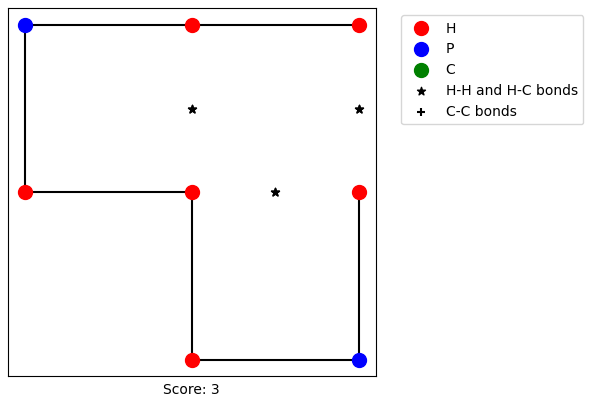
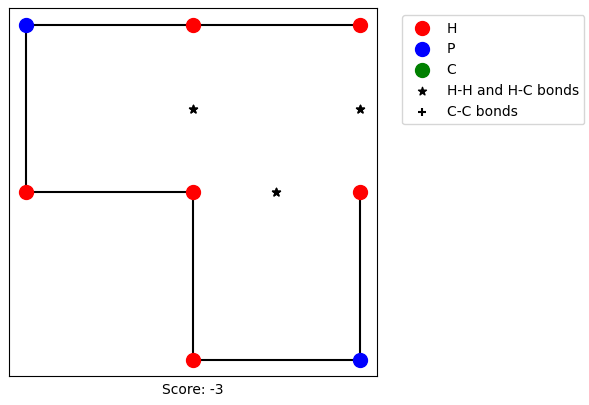
changes to experiment and readme

diff --git a/main.py b/main.py
@@ -12,10 +12,10 @@ import pickle
 def baseline_func(input_file):
     # ------------- baseline random algorithm -------------
     test_protein = protein.Protein(input_file)
-    baseline.baseline_random_protein(test_protein)
+    baseline.baseline_random_algorithm(test_protein)
 
     while test_protein.check_validity() == False:
-        baseline.baseline_random_protein(test_protein)
+        baseline.baseline_random_algorithm(test_protein)
     
     return test_protein
 
@@ -63,6 +63,7 @@ if __name__ == "__main__":
     algorithm = f"{sys.argv[1]}"
     input_file = f"proteins/{sys.argv[2]}.csv"
     
+
     if algorithm == "baseline":
         test_protein = baseline_func(input_file)
     elif algorithm == "random":
@@ -73,11 +74,12 @@ if __name__ == "__main__":
         test_protein = depth_first_func(input_file)
     elif algorithm == "breadth":
         test_protein = depth_first_func(input_file)
-
+ 
     
-        #test_protein.print_output("random_improved.csv")
-    #visualisation.print_folded_protein("output/random_improved.csv")
-    
-    result = pickle.dumps(test_protein)
-
-    sys.stdout.buffer.write(result)
+    if sys.argv[3] == "experiment":
+        result = pickle.dumps(test_protein)
+        sys.stdout.buffer.write(result)
+    else:
+        output_file = f"{sys.argv[3]}.csv"
+        test_protein.print_output(output_file)
+        visualisation.print_folded_protein(f"output/{output_file}")

diff --git a/experiment.py b/experiment.py
@@ -1,16 +1,13 @@
 import subprocess
 import time
 import sys
-from code.algorithms import baseline
-from code.classes import protein
-import matplotlib.pyplot as plt
 import pickle, codecs
 from unidecode import unidecode
-from code.visualisation import visualisation
-from histogram import histogram
+from code.visualisation import visualisation, histogram
 
 algorithm = sys.argv[1]
-input_protein = sys.argv[2]  
+input_protein = sys.argv[2] 
+output_file = sys.argv[1] + "_" + sys.argv[2]
 
 start = time.time()
 n_runs = 0
@@ -20,7 +17,7 @@ min_score = 0
 
 while time.time() - start < 100:
     print(f"run: {n_runs}")
-    result = subprocess.Popen(["timeout", "5", "python3", "main.py", algorithm, f"{input_protein}"], stdout=subprocess.PIPE)
+    result = subprocess.Popen(["timeout", "10", "python3", "main.py", algorithm, f"{input_protein}", "experiment"], stdout=subprocess.PIPE)
     output, _ = result.communicate()
 
     if output == "":
@@ -36,7 +33,7 @@ while time.time() - start < 100:
 
     n_runs += 1
 
-best_protein.print_output(f"experiment_best_{input_protein}.csv")
-visualisation.print_folded_protein(f"output/experiment_best_{input_protein}.csv")
+best_protein.print_output(f"experiment/experiment_{output_file}.csv")
+visualisation.print_folded_protein(f"output/experiment/experiment_{output_file}.csv")
 
-histogram(list_scores)
+histogram.histogram(list_scores, output_file)

diff --git a/code/visualisation/histogram.py b/code/visualisation/histogram.py
@@ -1,0 +1,14 @@
+import matplotlib.pyplot as plt
+
+def histogram(list1, output_file):
+    title = output_file.replace("_", " ").title()
+    bins = [x + 0.5 for x in set(sorted(list1))]
+    bins.append(min(bins) - 1)
+    bins = sorted(bins)
+
+    plt.hist(list1, bins, edgecolor='black')
+    plt.xlim(min(list1) - 1.5, max(list1) + 1.5)
+    plt.xlabel("Stability Score")
+    plt.ylabel("Iterations")
+    plt.title(title)
+    plt.savefig(f"output/experiment/histogram_{output_file}.png")

diff --git a/code/visualisation/plot.py b/code/visualisation/plot.py
@@ -117,7 +117,7 @@ def coord_types(output: list[list[Any]], soort: str) -> list[list[Any]]:
 
 def count_score(stars, plus):
     """ Return the score of the protein"""
-    return len(set(stars)) + len(set(plus)) * 5
+    return (len(set(stars)) + len(set(plus)) * 5) * -1
 
 def create_plot(output, plot_name):
     """ Create a plot of the protein """

diff --git a/README.md b/README.md
@@ -8,17 +8,87 @@ Minor Programmeren - Universiteit van Amsterdam \
 
 ## Case
 
-Eiwitten zijn lange strengen van aminozuren die veel belangrijke processen in het menselijk lichaam beregelen. Het is bekend dat eiwitten ‘opgevouwen’ in de lichaamscellen opgeborgen zitten, en dat de specifieke vouwing bepalend is voor het functioneren; verkeerd gevouwen eiwitten staan aan de basis van onder andere kanker, Alzheimer en taaislijmziekte. Het is daarom van groot belang voor zowel de farmaceutische industrie als de medische wetenschap om iets te kunnen zeggen over de exacte vorm van de vouwing.
+Proteïnen zijn lange strengen van aminozuren die veel belangrijke processen in het menselijk lichaam beregelen. Het is bekend dat proteïnen ‘opgevouwen’ in de lichaamscellen opgeborgen zitten, en dat de specifieke vouwing bepalend is voor het functioneren; verkeerd gevouwen proteïnen staan aan de basis van onder andere kanker, Alzheimer en taaislijmziekte. Het is daarom van groot belang voor zowel de farmaceutische industrie als de medische wetenschap om iets te kunnen zeggen over de exacte vorm van de vouwing.
 
-Nu is er is het één en ander bekend over het mechanisme: hydrofobe aminozuren (H) willen graag ‘naast elkaar’ liggen, polaire aminozuren (P) hebben die voorkeur niet. Als twee hydrofobe aminozuren naast elkaar liggen ontstaat er namelijk een ‘H-bond’ door de aantrekkende kachten tussen de twee. En hoe meer bonds, hoe stabieler het eiwit. Voor de wetenschappers en farmaceuten is het belangrijk om te weten tot welke stabiliteit van het eiwit maximaal gevouwen zou kunnen worden. Het doel is dus de gegeven eiwitten zo op te vouwen, dat ze zo stabiel mogelijk zijn.
+Aminozuren kunnen worden ingedeeld in drie verschillende klasses Polair (P), Hydrofoob (H) en Cysteine (C).
+Als twee hydrofobe of cysteine aminozuren naast elkaar liggen ontstaat er een ‘H-bond’ door de aantrekkende kachten tussen de twee. En hoe meer bonds, hoe stabieler het proteïne. Voor de wetenschappers en farmaceuten is het belangrijk om te weten tot welke stabiliteit van het proteïne maximaal gevouwen zou kunnen worden. Het doel is dus de gegeven proteïnen zo op te vouwen, dat ze zo stabiel mogelijk zijn.
+
+Om dit doel te behalen zijn er verschillende soorten algoritmes geschreven. Dit zijn random, constructieve en iteratieve algoritmes. [**Meer informatie over de algorithmes kan hier gevonden worden.**](https://github.com/Ella-cloud-max/ELE/tree/main/code/algorithms)
+
+#### Score
+De stabiliteits score wordt berekend door de hoeveelheid bonds die ontstaan door een vouwing te tellen. H-H en H-C bonds hebben een stabiliteits score van -1, terwijl C-C bonds een stabiliteits score hebben van -5.
 
 ## Gebruik
-matplotlib
-random
-unidecode
+Download de nodigde python modules met onderstaand command:
+```
+ python3 -m pip install -r requirements.txt
+```
+
+Het volgende commando kan gebruikt worden om een van de algoritme te draaien
+
+```
+python main.py algorithm input_filename output_filename
+```
+
+Voor de algorithmes kan gekozen worden uit de volgende opties:
+- baseline
+- random
+- greedy
+- depth  
+- breadth
+- hill climbing
+- simulated annealing
+
+
+De input files zijn csv bestanden die zich in het mapje proteins bevinden. \
+Een voorbeeld van een commando om een greedy algoritm te runnen op het protein in protein1.csv is als volgt.
+
+```
+python main.py greedy protein1 output_protein1
+```
+
+#### Visualisatie
+Er zijn twee manieren om het opgevouwen proteïne te visualiseren. Het proteine kan in de terminal geprint worden, of opgeslagen in een png bestand.
+
+**Terminal** \
+Om de visualisatie in de terminal te printen kan het onderstaand command gebruiken. Het output bestand moet in het csv formaat opgeslagen liggen in de output folder.
+
+```
+python code/visualisation/visualisatie.py example_output
+```
+
+<img src="/docs/terminal_visualisation.png" height="100px">
+
+\
+**Bestand** \
+Gebruik het onderstaande command om de visualisatie op te slaan als een png bestand. Het plaatje wordt als een png bestand opgeslagen in het mapje output/visualisation.
+
+```
+python code/visualisation/plot.py example_output visualisation_output_file
+```
+<img src="/docs/plot_visualisation.png" height="200px">
+
+#### Experiment
+Om een experiment te runnen gebruik het volgende command:
+
+```
+python experiment.py algorithm input_filename
+```
+Voor 100 seconden wordt het algoritm zo vaak als mogelijk is gedraaid. Een lijst met alle uitkomsten wordt in het bestand experiment_algorithm_input_filename.csv opgeslagen in het mapje output/experiment. Een histogram van de output wordt in het bestand histogram_algorithm_input_filename.png opgeslagen in het zelfde mapje.
+
+<img src="/docs/histogram_example.png" height="200px">
 
 
 ## Structuur
+[/code](https://github.com/Ella-cloud-max/ELE/tree/main/code): alle code geschreven tijdens dit project \
+[/code/classes](https://github.com/Ella-cloud-max/ELE/tree/main/code/classes): bevat de benodigde classes voor dit project \
+[/code/algorithms](https://github.com/Ella-cloud-max/ELE/tree/main/code/algorithms): bevat de code voor algorithms \
+[/code/visualisation](https://github.com/Ella-cloud-max/ELE/tree/main/code/visualisation): bevat de code voor de visualisaties \
+[/docs](https://github.com/Ella-cloud-max/ELE/tree/main/docs): bestanden gemaakt tijdens dit bestanden \
+[/proteins](https://github.com/Ella-cloud-max/ELE/tree/main/proteins): bevat alle input bestanden met proteinen \
+[/output](https://github.com/Ella-cloud-max/ELE/tree/main/output): bevat alle outputs \
+[/output/experiment](https://github.com/Ella-cloud-max/ELE/tree/main/output/experiment): bevat alle outputs van de experimenten \
+[/output/visualisation](https://github.com/Ella-cloud-max/ELE/tree/main/output): bevat alle visualisations van de outputs
 
 #### Auteurs
 [Ella van Loenen](https://github.com/Ella-cloud-max) \
